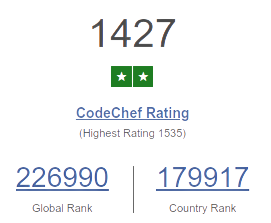
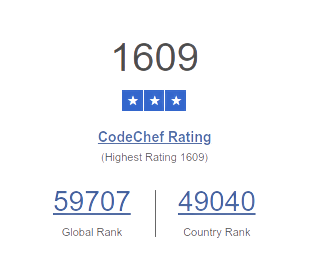
updated

diff --git a/index.html b/index.html
@@ -128,7 +128,7 @@
                         <h2>CodeChef 2 star</h2>
                     </div>
                     <div class="desc">
-                        <p>Partcipated in 7 contests on CodeChef</p>
+                        <p>3 stars coder on CodeChef</p>
                     </div>
                     <div class="img1 items-center">
                         <img src="assets/images/codechef.png" alt="gold badge">
